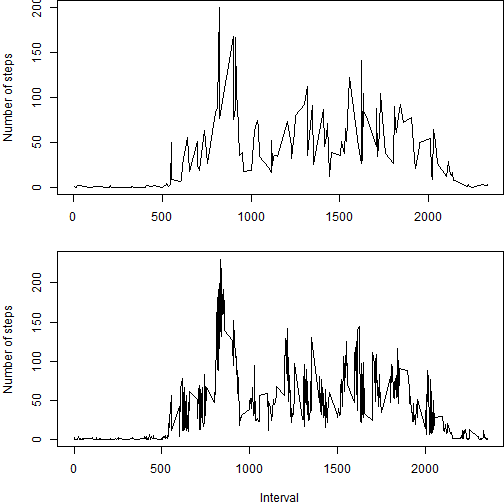
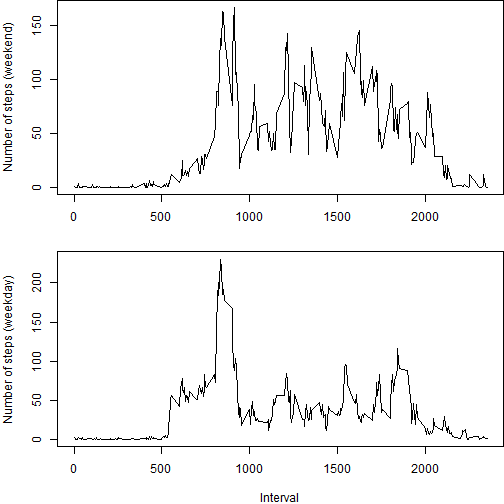
Finishing touches: added more comments and changed variable names for clarity

diff --git a/PA1_template.html b/PA1_template.html
@@ -183,98 +183,104 @@ hljs.initHighlightingOnLoad();
 
 <h2>Loading and preprocessing the data</h2>
 
-<pre><code class="r">Sys.setlocale(&quot;LC_TIME&quot;, &quot;English&quot;)
+<pre><code class="r"># setting locale to English so it&#39;ll use english for weekdays
+Sys.setlocale(&quot;LC_TIME&quot;, &quot;English&quot;)
 </code></pre>
 
 <pre><code>## [1] &quot;English_United States.1252&quot;
 </code></pre>
 
-<pre><code class="r">data &lt;- read.csv(&quot;activity.csv&quot;)
+<pre><code class="r"># loading data
+data &lt;- read.csv(&quot;activity.csv&quot;)
 </code></pre>
 
 <h2>What is mean total number of steps taken per day?</h2>
 
-<pre><code class="r">aggr &lt;- aggregate(data$steps, by = list(data$date), FUN = sum)
-hist(aggr$x, xlab = &quot;Number of steps&quot;)
+<pre><code class="r">stepsPerDate &lt;- aggregate(data$steps, by = list(data$date), FUN = sum)
+colnames(stepsPerDate) &lt;- c(&quot;date&quot;, &quot;numSteps&quot;)  #naming columns
+hist(stepsPerDate$numSteps, xlab = &quot;Number of steps&quot;, main = &quot;Histogram of the total number of steps taken each day&quot;)
 </code></pre>
 
[2 lines of base64/hex data omitted]
 
-<pre><code class="r">mean(aggr$x, na.rm = TRUE)
+<pre><code class="r">mean &lt;- mean(stepsPerDate$numSteps, na.rm = TRUE)
+median &lt;- median(stepsPerDate$numSteps, na.rm = TRUE)
 </code></pre>
 
-<pre><code>## [1] 10766
-</code></pre>
-
-<pre><code class="r">median(aggr$x, na.rm = TRUE)
-</code></pre>
-
-<pre><code>## [1] 10765
-</code></pre>
+<p>Mean total number of steps taken per day: 1.0766 &times; 10<sup>4</sup><br/>
+Median total number of steps taken per day: 10765</p>
 
 <h2>What is the average daily activity pattern?</h2>
 
-<pre><code class="r">aggr2 &lt;- aggregate(data$steps, by = list(data$interval), FUN = mean, na.rm = T)
-plot(aggr2$Group.1, aggr2$x, type = &quot;l&quot;, xlab = &quot;Interval&quot;, ylab = &quot;Average number of steps&quot;)
+<pre><code class="r">stepsPerInterval &lt;- aggregate(data$steps, by = list(data$interval), FUN = mean, 
+    na.rm = T)
+colnames(stepsPerInterval) &lt;- c(&quot;interval&quot;, &quot;avgSteps&quot;)  #naming columns
+plot(stepsPerInterval$interval, stepsPerInterval$avgSteps, type = &quot;l&quot;, xlab = &quot;Interval&quot;, 
+    ylab = &quot;Average number of steps&quot;)
 </code></pre>
 
[1 lines of base64/hex data omitted]
 
 <pre><code class="r">
-aggr2[aggr2$x == max(aggr2$x), &quot;Group.1&quot;]
+intMaxStep &lt;- stepsPerInterval[stepsPerInterval$avgSteps == max(stepsPerInterval$avgSteps), 
+    &quot;interval&quot;]
 </code></pre>
 
-<pre><code>## [1] 835
-</code></pre>
+<p>Interval which contains the maximum number of steps 835</p>
 
 <h2>Imputing missing values</h2>
 
 <pre><code class="r">ok &lt;- complete.cases(data)
-sum(!ok)
-</code></pre>
+numMiss &lt;- sum(!ok)  #number of missing values
 
-<pre><code>## [1] 2304
-</code></pre>
-
-<pre><code class="r">
-new &lt;- merge(data, aggr2, by.x = &quot;interval&quot;, by.y = &quot;Group.1&quot;)
-new[is.na(new$steps), &quot;steps&quot;] = new[is.na(new$steps), &quot;x&quot;]
+# merging data with stepsPerInterval
+new &lt;- merge(data, stepsPerInterval, by.x = &quot;interval&quot;, by.y = &quot;interval&quot;)
+# replacing NA values in the column &#39;steps&#39; with the mean steps for that
+# interval
+new[is.na(new$steps), &quot;steps&quot;] = new[is.na(new$steps), &quot;avgSteps&quot;]
+# replace the new data set with only steps, date and interval columns
 new &lt;- new[, c(&quot;steps&quot;, &quot;date&quot;, &quot;interval&quot;)]
 
-aggr3 &lt;- aggregate(new$steps, by = list(new$date), FUN = sum)
-hist(aggr3$x, xlab = &quot;Number of steps&quot;)
+newStepPerDate &lt;- aggregate(new$steps, by = list(new$date), FUN = sum)
+colnames(newStepPerDate) &lt;- c(&quot;date&quot;, &quot;numSteps&quot;)  #naming columns
+hist(newStepPerDate$numSteps, xlab = &quot;Number of steps&quot;, main = &quot;Histogram of the total number of steps taken each day&quot;)
 </code></pre>
 
[2 lines of base64/hex data omitted]
 
-<pre><code class="r">mean(aggr3$x, na.rm = TRUE)
+<pre><code class="r">newMean &lt;- mean(newStepPerDate$numSteps, na.rm = TRUE)
+newMedian &lt;- median(newStepPerDate$numSteps, na.rm = TRUE)
 </code></pre>
 
-<pre><code>## [1] 10766
-</code></pre>
-
-<pre><code class="r">median(aggr3$x, na.rm = TRUE)
-</code></pre>
-
-<pre><code>## [1] 10766
-</code></pre>
+<p>There are 2304 rows with missing values.<br/>
+Mean total number of steps taken per day without missing values: 1.0766 &times; 10<sup>4</sup><br/>
+Median total number of steps taken per day without missing values: 1.0766 &times; 10<sup>4</sup>  </p>
 
 <h2>Are there differences in activity patterns between weekdays and weekends?</h2>
 
-<pre><code class="r">new$date = strptime(new$date, format = &quot;%Y-%m-%d&quot;)
+<pre><code class="r"># converting to Date
+new$date = strptime(new$date, format = &quot;%Y-%m-%d&quot;)
+# adding new column &#39;weekday&#39;
 new$weekday = &quot;weekday&quot;
-filter = weekdays(new$date) %in% c(&quot;Saturday&quot;, &quot;Sunday&quot;)
-new[filter, &quot;weekday&quot;] = &quot;weekend&quot;
+# creating filter to check if date is weekend
+isWeekend = weekdays(new$date) %in% c(&quot;Saturday&quot;, &quot;Sunday&quot;)
+new[isWeekend, &quot;weekday&quot;] = &quot;weekend&quot;
+# converting to factors
 new$weekday = factor(new$weekday)
 
-aggr4 &lt;- aggregate(new$steps, new[, c(&quot;weekday&quot;, &quot;interval&quot;)], FUN = mean)
+# calculating the mean by weekday and interval
+stepsPerWeekday &lt;- aggregate(new$steps, new[, c(&quot;weekday&quot;, &quot;interval&quot;)], FUN = mean)
+colnames(stepsPerWeekday) = c(&quot;weekday&quot;, &quot;interval&quot;, &quot;avgsteps&quot;)  #naming columns
+# setting margins and number of plots in the panel
 par(mfcol = c(2, 1), mar = c(4, 4, 0, 0))
-plot(aggr4[filter, &quot;interval&quot;], aggr4[filter, &quot;x&quot;], type = &quot;l&quot;, xlab = &quot;&quot;, ylab = &quot;Number of steps&quot;)
-plot(aggr4[!filter, &quot;interval&quot;], aggr4[!filter, &quot;x&quot;], type = &quot;l&quot;, xlab = &quot;Interval&quot;, 
-    ylab = &quot;Number of steps&quot;)
+isWeekend = stepsPerWeekday$weekday == &quot;weekend&quot;
+plot(stepsPerWeekday[isWeekend, &quot;interval&quot;], stepsPerWeekday[isWeekend, &quot;avgsteps&quot;], 
+    type = &quot;l&quot;, xlab = &quot;&quot;, ylab = &quot;Number of steps (weekend)&quot;)
+plot(stepsPerWeekday[!isWeekend, &quot;interval&quot;], stepsPerWeekday[!isWeekend, &quot;avgsteps&quot;], 
+    type = &quot;l&quot;, xlab = &quot;Interval&quot;, ylab = &quot;Number of steps (weekday)&quot;)
 </code></pre>
 
[2 lines of base64/hex data omitted]
 
 </body>
 

diff --git a/PA1_template.md b/PA1_template.md
@@ -4,6 +4,7 @@
 ## Loading and preprocessing the data
 
 ```r
+# setting locale to English so it'll use english for weekdays
 Sys.setlocale("LC_TIME", "English")
 ```
 
@@ -12,6 +13,7 @@ Sys.setlocale("LC_TIME", "English")
 ```
 
 ```r
+# loading data
 data <- read.csv("activity.csv")
 ```
 
@@ -20,105 +22,98 @@ data <- read.csv("activity.csv")
 ## What is mean total number of steps taken per day?
 
 ```r
-aggr <- aggregate(data$steps, by = list(data$date), FUN = sum)
-hist(aggr$x, xlab = "Number of steps")
+stepsPerDate <- aggregate(data$steps, by = list(data$date), FUN = sum)
+colnames(stepsPerDate) <- c("date", "numSteps")  #naming columns
+hist(stepsPerDate$numSteps, xlab = "Number of steps", main = "Histogram of the total number of steps taken each day")
 ```
 
 ![plot of chunk unnamed-chunk-2](figure/unnamed-chunk-2.png) 
 
 ```r
-mean(aggr$x, na.rm = TRUE)
-```
-
-```
-## [1] 10766
-```
-
-```r
-median(aggr$x, na.rm = TRUE)
-```
-
-```
-## [1] 10765
+mean <- mean(stepsPerDate$numSteps, na.rm = TRUE)
+median <- median(stepsPerDate$numSteps, na.rm = TRUE)
 ```
 
 
+Mean total number of steps taken per day: 1.0766 &times; 10<sup>4</sup>  
+Median total number of steps taken per day: 10765
 
 ## What is the average daily activity pattern?
 
 ```r
-aggr2 <- aggregate(data$steps, by = list(data$interval), FUN = mean, na.rm = T)
-plot(aggr2$Group.1, aggr2$x, type = "l", xlab = "Interval", ylab = "Average number of steps")
+stepsPerInterval <- aggregate(data$steps, by = list(data$interval), FUN = mean, 
+    na.rm = T)
+colnames(stepsPerInterval) <- c("interval", "avgSteps")  #naming columns
+plot(stepsPerInterval$interval, stepsPerInterval$avgSteps, type = "l", xlab = "Interval", 
+    ylab = "Average number of steps")
 ```
 
 ![plot of chunk unnamed-chunk-3](figure/unnamed-chunk-3.png) 
 
 ```r
 
-aggr2[aggr2$x == max(aggr2$x), "Group.1"]
-```
-
-```
-## [1] 835
+intMaxStep <- stepsPerInterval[stepsPerInterval$avgSteps == max(stepsPerInterval$avgSteps), 
+    "interval"]
 ```
 
 
+Interval which contains the maximum number of steps 835
 
 ## Imputing missing values
 
 ```r
 ok <- complete.cases(data)
-sum(!ok)
-```
+numMiss <- sum(!ok)  #number of missing values
 
-```
-## [1] 2304
-```
-
-```r
-
-new <- merge(data, aggr2, by.x = "interval", by.y = "Group.1")
-new[is.na(new$steps), "steps"] = new[is.na(new$steps), "x"]
+# merging data with stepsPerInterval
+new <- merge(data, stepsPerInterval, by.x = "interval", by.y = "interval")
+# replacing NA values in the column 'steps' with the mean steps for that
+# interval
+new[is.na(new$steps), "steps"] = new[is.na(new$steps), "avgSteps"]
+# replace the new data set with only steps, date and interval columns
 new <- new[, c("steps", "date", "interval")]
 
-aggr3 <- aggregate(new$steps, by = list(new$date), FUN = sum)
-hist(aggr3$x, xlab = "Number of steps")
+newStepPerDate <- aggregate(new$steps, by = list(new$date), FUN = sum)
+colnames(newStepPerDate) <- c("date", "numSteps")  #naming columns
+hist(newStepPerDate$numSteps, xlab = "Number of steps", main = "Histogram of the total number of steps taken each day")
 ```
 
 ![plot of chunk unnamed-chunk-4](figure/unnamed-chunk-4.png) 
 
 ```r
-mean(aggr3$x, na.rm = TRUE)
-```
-
-```
-## [1] 10766
-```
-
-```r
-median(aggr3$x, na.rm = TRUE)
-```
-
-```
-## [1] 10766
+newMean <- mean(newStepPerDate$numSteps, na.rm = TRUE)
+newMedian <- median(newStepPerDate$numSteps, na.rm = TRUE)
 ```
 
 
+
+There are 2304 rows with missing values.  
+Mean total number of steps taken per day without missing values: 1.0766 &times; 10<sup>4</sup>  
+Median total number of steps taken per day without missing values: 1.0766 &times; 10<sup>4</sup>  
 
 ## Are there differences in activity patterns between weekdays and weekends?
 
 ```r
+# converting to Date
 new$date = strptime(new$date, format = "%Y-%m-%d")
+# adding new column 'weekday'
 new$weekday = "weekday"
-filter = weekdays(new$date) %in% c("Saturday", "Sunday")
-new[filter, "weekday"] = "weekend"
+# creating filter to check if date is weekend
+isWeekend = weekdays(new$date) %in% c("Saturday", "Sunday")
+new[isWeekend, "weekday"] = "weekend"
+# converting to factors
 new$weekday = factor(new$weekday)
 
-aggr4 <- aggregate(new$steps, new[, c("weekday", "interval")], FUN = mean)
+# calculating the mean by weekday and interval
+stepsPerWeekday <- aggregate(new$steps, new[, c("weekday", "interval")], FUN = mean)
+colnames(stepsPerWeekday) = c("weekday", "interval", "avgsteps")  #naming columns
+# setting margins and number of plots in the panel
 par(mfcol = c(2, 1), mar = c(4, 4, 0, 0))
-plot(aggr4[filter, "interval"], aggr4[filter, "x"], type = "l", xlab = "", ylab = "Number of steps")
-plot(aggr4[!filter, "interval"], aggr4[!filter, "x"], type = "l", xlab = "Interval", 
-    ylab = "Number of steps")
+isWeekend = stepsPerWeekday$weekday == "weekend"
+plot(stepsPerWeekday[isWeekend, "interval"], stepsPerWeekday[isWeekend, "avgsteps"], 
+    type = "l", xlab = "", ylab = "Number of steps (weekend)")
+plot(stepsPerWeekday[!isWeekend, "interval"], stepsPerWeekday[!isWeekend, "avgsteps"], 
+    type = "l", xlab = "Interval", ylab = "Number of steps (weekday)")
 ```
 
 ![plot of chunk unnamed-chunk-5](figure/unnamed-chunk-5.png) 
